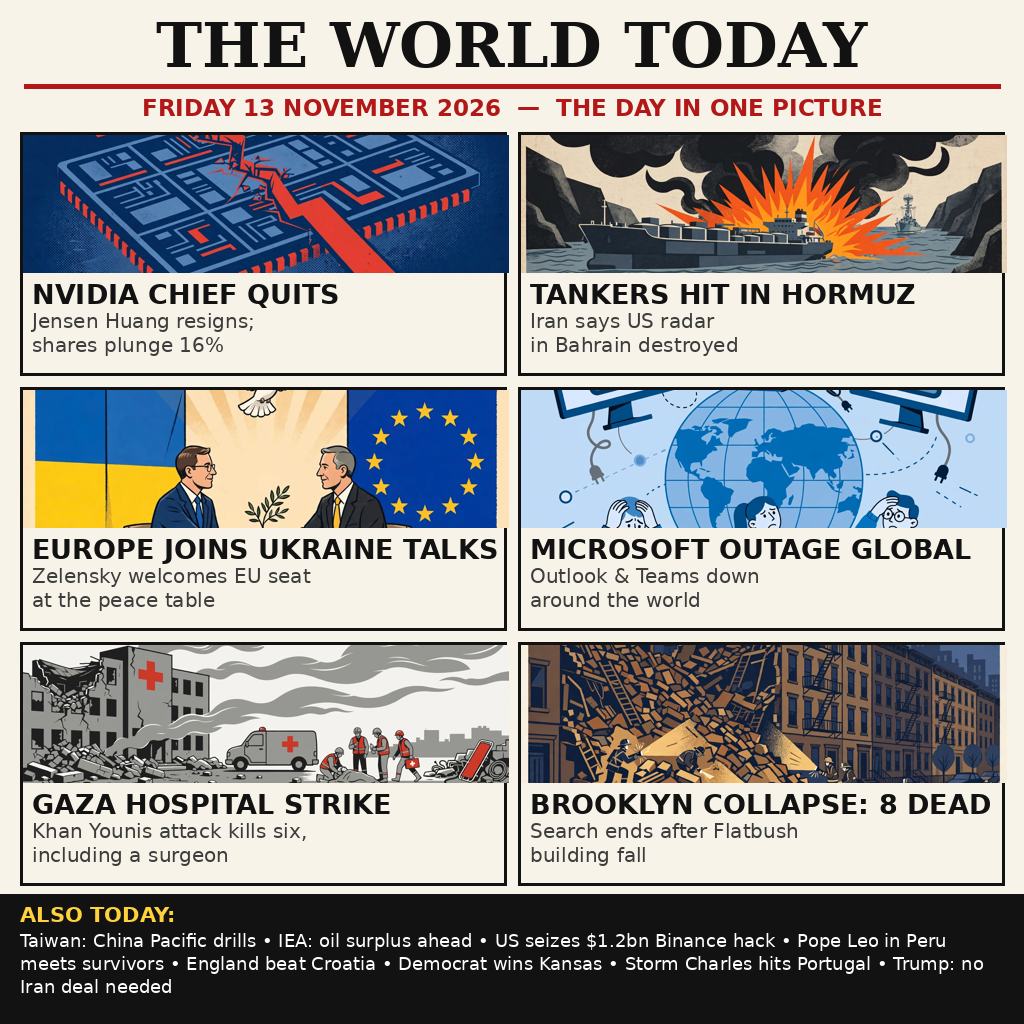
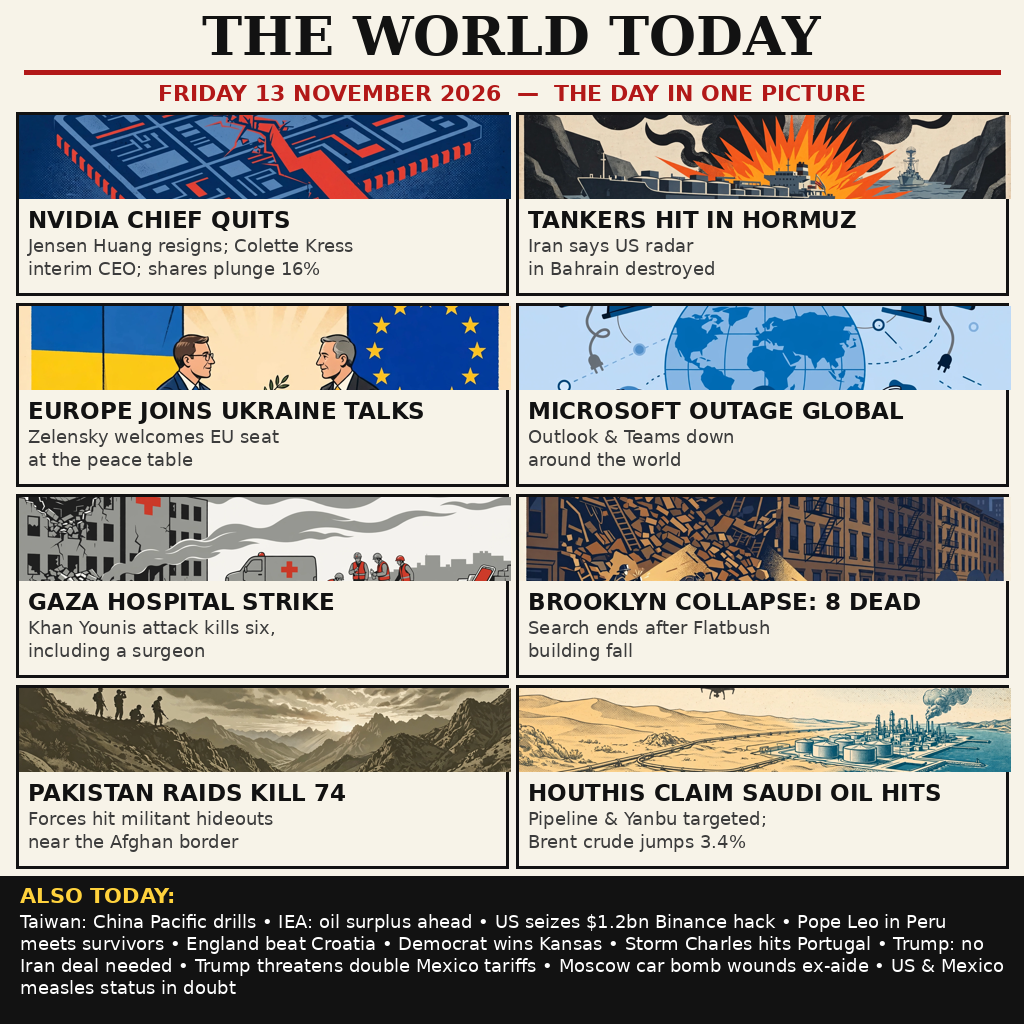
v2: denser front page, 19 stories

diff --git a/README.md b/README.md
@@ -10,10 +10,21 @@ picture against the competition limits (whole PNG or JPEG, at most
 otherwise `/output`).
 
 The picture: a newspaper front page, "THE WORLD TODAY — FRIDAY
-13 NOVEMBER 2026 — THE DAY IN ONE PICTURE", with six illustrated
-panels — Nvidia chief Jensen Huang resigns (shares plunge 16%);
-tankers hit in the Strait of Hormuz as Iran says a US radar in
-Bahrain was destroyed; Europe joins the Ukraine peace talks;
-Microsoft outage goes global; Gaza hospital strike in Khan Younis
-kills six; Brooklyn building collapse toll reaches eight — plus an
-"Also Today" strip with eight more of the day's stories.
+13 NOVEMBER 2026 — THE DAY IN ONE PICTURE", with eight illustrated
+panels — Nvidia chief Jensen Huang resigns (CFO Colette Kress named
+interim CEO; shares plunge 16%); tankers hit in the Strait of Hormuz
+as Iran says a US radar in Bahrain was destroyed; Europe joins the
+Ukraine peace talks; Microsoft outage goes global; Gaza hospital
+strike in Khan Younis kills six; Brooklyn building collapse toll
+reaches eight; Pakistan raids near the Afghan border kill 74
+militants; Houthis claim strikes on Saudi Arabia's East-West oil
+pipeline and Yanbu (Brent crude jumps 3.4%) — plus an "Also Today"
+strip with eleven more of the day's stories: Taiwan details China's
+Pacific drills; the IEA forecasts an oil surplus; the US seizes
+$1.2bn from the Binance hack; Pope Leo meets survivors in Peru;
+England beat Croatia; a Democrat wins the Kansas governorship;
+Storm Charles hits Portugal; Trump says no Iran deal is needed;
+Trump threatens to double tariffs on Mexico over migrant caravans;
+a Moscow car bomb wounds a former Ukrainian prime minister's aide;
+and the US and Mexico await a ruling on their measles elimination
+status. Nineteen stories in total.
